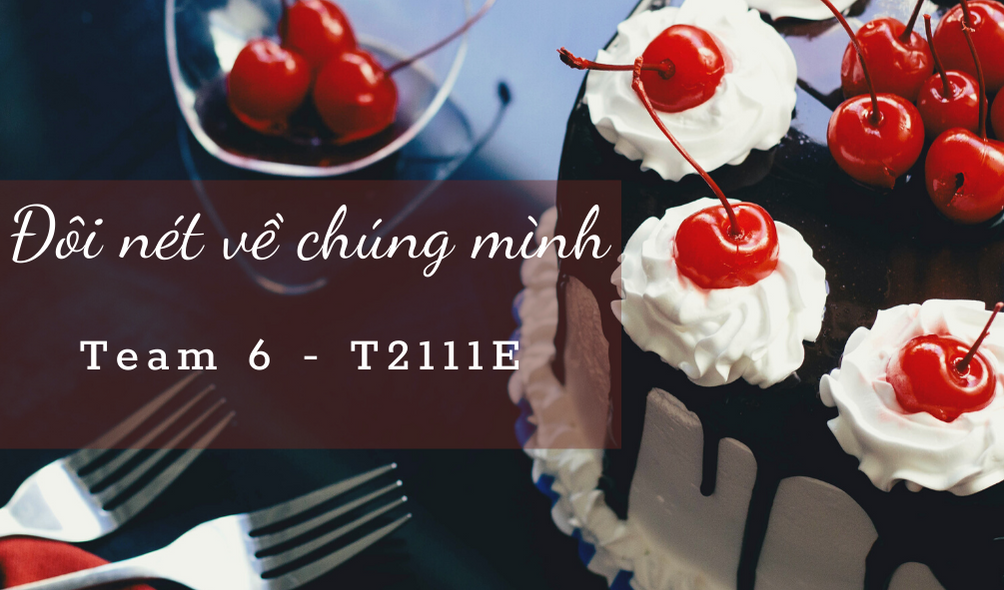
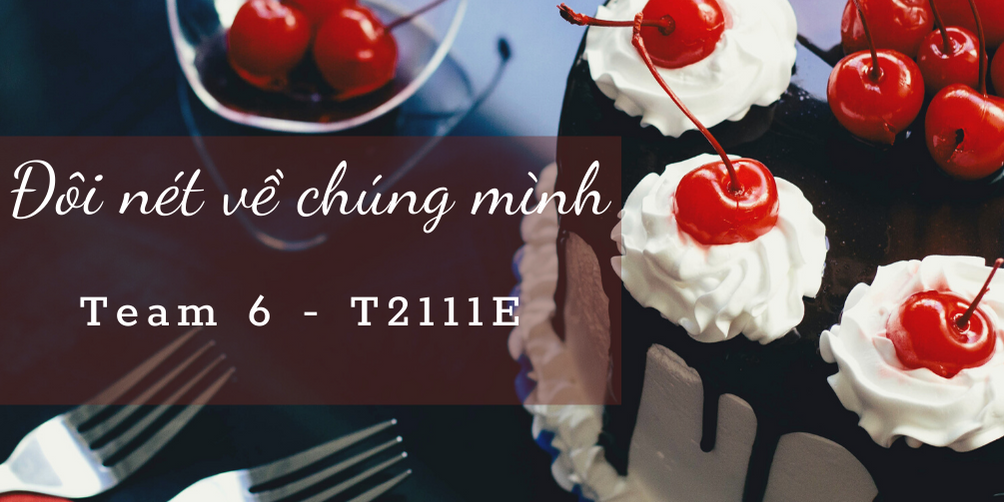
commit code

diff --git a/aboutus.html b/aboutus.html
@@ -47,38 +47,54 @@
 
     </div>
 </header>
-<div class="container" style="margin-top: 120px;">
-    <img src="imgs/aboutus/AboutUs.png" width= "1200px" alt = "">
+<div class="" style="margin-top: 95px;">
+    <img src="imgs/aboutus/AboutUs.png" width= "100%" alt = "">
 </div>
-<section class="section main" style="margin-top: 120px">
+<section class="section main" style="margin-top: 95px">
     <div class="container">
         <article class="content">
             <div class="entry">
                 <div class = "introduce">
-                    <h1 class = "text-uppercase text-center">Giới thiệu</h1>
+                    <h1 class = "text-uppercase text-center">Introduce</h1>
                     <p>Xin chào tất cả mọi người!</p>
                     <p>Chúng mình là team 6 - T2111E Aptech đây. Dưới đây là vài lời tâm sự mỏng của chúng mình, mong mọi người sẽ đọc ạ.</p>
                     <p>Food Blogs là một trang web mà chúng mình tạo ra, mục đích là sưu tập tất cả các công thức làm món ăn ngon, những món ăn đặc trưng của từng vừng miền trong nước cũng như ngoài nước, các bài viết review về địa điểm ăn ngon trên mọi miền của tổ quốc, cũng như những mẹo vặt nhà bếp cho team nội trợ và mẹ bỉm. Mong rằng đây sẽ là một trang web thiết thực và có ích cho mọi người, hy vọng chúng mình sẽ đem lại những trải nghiệm tốt đẹp, những điểm đến thú vị cho mọi người</p>
                     <p>Vì là lần đầu nên chắc chắn Food Blogs vẫn còn rất nhiều thiếu xót, chúng mình mong các bạn sẽ xem và đóng góp ý kiến cho chúng mình, chúng mình xin nghi nhận và bổ sung cho Food Blogs ngày càng hoàn thiện hơn.</p>
                     <p>Xin trân thành cảm ơn mọi người!</p>
                 </div>
-                <div class= "contact">
-                    <h1 class = "text-uppercase text-center">Liên hệ</h1>
-                    <p>Mọi thông tin góp ý và ý kiến, các bạn liên hệ với chúng mình qua các thông tin này nhé.</p>
-                    <p>Address: Số 8, Tôn Thất Thuyết, Mỹ Đình, Nam Từ Liêm, Hà Nội</p>
-                    <p>Hotline: 01234556688 - 0987456321</p>
-                    <p>Email: foodblog@gmail.com</p>
-                    <p>Website: foodblog.com</p>
-                </div>
-                <div>
-                    <h2 class = "text-center text-uppercase">Một lần nữa cảm ơn mọi người rất nhiều!</h2>
-                </div>
+<!--                <div class= "contact">-->
+<!--                    <h1 class = "text-uppercase text-center">Liên hệ</h1>-->
+<!--                    <p>Mọi thông tin góp ý và ý kiến, các bạn liên hệ với chúng mình qua các thông tin này nhé.</p>-->
+<!--                    <p>Address: Số 8, Tôn Thất Thuyết, Mỹ Đình, Nam Từ Liêm, Hà Nội</p>-->
+<!--                    <p>Hotline: 01234556688 - 0987456321</p>-->
+<!--                    <p>Email: foodblog@gmail.com</p>-->
+<!--                    <p>Website: foodblog.com</p>-->
+<!--                </div>-->
+<!--                <div>-->
+<!--                    <h2 class = "text-center text-uppercase">Một lần nữa cảm ơn mọi người rất nhiều!</h2>-->
+<!--                </div>-->
             </div>
         </article>
         <aside class="sidebar">
             <div class="sidebar-block">
-
-
+                <h2 class="text-center text-uppercase" style="margin-bottom: 30px;">Contact Us</h2>
+                <form action="" method="get">
+                    <div class="form-group">
+                        <input class="form-control" type="text" name="name" placeholder="Name">
+                    </div>
+                    <div class="form-group">
+                        <input class="form-control" type="text" name="subject" placeholder="Subject">
+                    </div>
+                    <div class="form-group">
+                        <input class="form-control" type="email" name="email" placeholder="Email" required>
+                    </div>
+                    <div class="form-group">
+                        <textarea class="form-control" name="message" placeholder="Message" required></textarea>
+                    </div>
+                    <div class="form-group">
+                        <button class="submit-btn" type="submit">Submit</button>
+                    </div>
+                </form>
             </div>
         </aside>
     </div>

diff --git a/kitchentip.html b/kitchentip.html
@@ -70,8 +70,7 @@
                          </div>
                     </div>
                     <div class = "part-two col-md-12">
-
-                        <div class = "row col-md-12">
+                        <div class = "row">
                             <div class = "cell-left col-md-6">
                                 <a href = "https://eva.vn/meo-hay-nha-bep/ra-dong-thit-lon-dung-2-nguyen-lieu-nay-chi-10-phut-la-mem-ngay-tuoi-ngon-nhu-moi-c279a501330.html"><h4>Rã động thịt lợn dùng 2 nguyên liệu này chỉ 10 phút là mềm ngay, tươi ngon như mới</h4></a>
                                 <div class = "col-md-6">
@@ -92,7 +91,7 @@
                             </div>
                         </div>
 
-                        <div class = "row col-md-12">
+                        <div class = "row">
                             <div class = "cell-left col-md-6">
                                 <a href = "https://eva.vn/meo-hay-nha-bep/khong-can-muoi-dua-got-xong-cho-vao-ngam-cung-thu-nay-an-vao-het-rat-luoi-con-ngot-hon-c279a504080.html"><h4>Không cần muối, dứa gọt xong cho vào ngâm cùng thứ này, ăn vào hết rát lưỡi, còn ngọt hơn</h4></a>
                                 <div class = "col-md-6">
@@ -113,7 +112,7 @@
                             </div>
                         </div>
 
-                        <div class = "row col-md-12">
+                        <div class = "row">
                             <div class = "cell-left col-md-6">
                                 <a href = "https://eva.vn/meo-hay-nha-bep/gao-mua-ve-hay-bi-mot-nhet-ngay-thu-nay-vao-thung-de-lau-chang-so-con-gi-tan-cong-c279a507646.html"><h4>Gạo mua về hay bị mọt, nhét ngay thứ này vào thùng để lâu chẳng sợ con gì "tấn công"</h4></a>
                                 <div class = "col-md-6">
@@ -134,7 +133,7 @@
                             </div>
                         </div>
 
-                        <div class = "row col-md-12">
+                        <div class = "row">
                             <div class = "cell-left col-md-6">
                                 <a href = "https://eva.vn/meo-hay-nha-bep/bao-quan-thit-lon-dung-cho-ngay-vao-tu-lanh-them-meo-nay-thit-tuoi-ca-nua-nam-c279a484211.html"><h4>Bảo quản thịt lợn đừng cho ngay vào tủ lạnh, thêm mẹo này thịt tươi cả nửa năm</h4></a>
                                 <div class = "col-md-6">
@@ -155,7 +154,7 @@
                             </div>
                         </div>
 
-                        <div class = "row col-md-12">
+                        <div class = "row">
                             <div class = "cell-left col-md-6">
                                 <a href = "https://eva.vn/meo-hay-nha-bep/chon-thit-lon-thay-6-dau-hieu-nay-nen-tranh-ngay-du-duoc-cho-khong-cung-dung-mang-ve-c279a490176.html"><h4>Chọn thịt lợn, thấy 6 dấu hiệu này nên tránh ngay, dù được cho không cũng đừng mang về</h4></a>
                                 <div class = "col-md-6">
@@ -177,7 +176,7 @@
                         </div>
                     </div>
                     <div class = "links col-md-12">
-                        <h4>Tham khảo thêm tại:</h4>
+                        <h2>Tham khảo thêm tại:</h2>
                         <ul>
                             <li><a href= "https://www.cleanipedia.com/vn/ve-sinh-nha-bep/meo-vat-nha-bep-giup-khu-sach-mui-hoi-sau-khi-che-bien-thuc-an.html">39 mẹo vặt nhà bếp</a></li>
                             <li><a href= "https://iowagirleats.com/40-favorite-kitchen-tips-and-tricks/">40 favorite kitchen tips and tricks</a></li>
@@ -185,7 +184,7 @@
                         </ul>
                     </div>
                     <div class = "video col-md-12">
-                        <h4>Các video liên quan:</h4>
+                        <h2>Các video liên quan:</h2>
                         <div class = "clip col-md-3">
                             <iframe width="200" height="200" src="https://www.youtube.com/embed/oJXTlRuAnb4" title="YouTube video player" frameborder="0" allow="accelerometer; autoplay; clipboard-write; encrypted-media; gyroscope; picture-in-picture" allowfullscreen></iframe>
                         </div>

diff --git a/css/kitchentip.css b/css/kitchentip.css
@@ -226,11 +226,14 @@ a:hover{
 .links li{
     margin-left: 10px;
     font-weight: 500;
-    font-size: 15px;
+    font-size: 20px;
 }
-.part-two row{
+.links li:hover a{
+    color: #bb942f;
+    transition: all 500ms;
+}
+.part-two .row{
     width: 100%;
-    box-sizing: border-box;
     padding: 20px 0px;
     border-bottom: 1px solid #aaaaaa;
 }
@@ -238,11 +241,13 @@ a:hover{
     box-sizing: border-box;
 }
 .part-one{
+    margin-top: 20px;
     border-bottom: 1px solid #aaaaaa;
-    box-sizing: border-box;
     padding-top: 15px;
     padding-bottom: 15px;
 }
+
+
 .sticky{
     font-size: 40px;
     margin: 10px;

diff --git a/css/aboutus.css b/css/aboutus.css
@@ -161,7 +161,22 @@ a:hover{
     float: left;
     width: 100%;
     padding-left: 10px;
+    margin-top: 40px;
 }
+.form-group{
+    padding: 5px;
+}
+.form-control{
+    padding: 20px;
+}
+.submit-btn{
+    width: 100%;
+    background-color: red;
+}
+.submit-btn:hover{
+    background-color: #e07d7d;
+}
+
 
 .footer{
     display: inline-block;

diff --git a/css/review.css b/css/review.css
@@ -230,10 +230,12 @@ a:hover{
 .stk-face:hover, .stk-you:hover, .stk-ins:hover, .stk-twit:hover{
     background-color: #4f4b4b;
 }
+
+
 .review{
     padding-bottom: 15px;
     padding-top: 15px;
-    box-sizing: border-box;
+    margin: 20px 0;
     border-bottom: 1px solid #aaaaaa;
 }
 .review a h3:hover{
